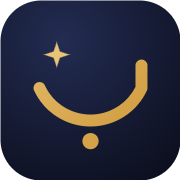
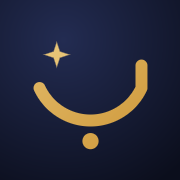
Bayan: fix all 14 refutation-confirmed code-review findings
An adversarial review (4 lenses, every finding independently attacked by
two skeptics; 14 upheld 2/2, 1 refuted) surfaced these; all fixed:

Engine:
- vocabDistractors now dedupes options by gloss and transliteration —
  سَنَة and عَام are both "year", and could render as twin options.
- searchVocab: a query whose fold is empty (a lone "-" or "ʿ") no longer
  prefix-matches the entire lexicon.
- Sun/moon questions draw target and options from the letters the drill
  actually covers (with a viability check swapping the kind when a group
  can't field a fair question) — no more quizzing untaught glyphs.
- bumpStreak/streakAlive: a clock that walks backwards (westward travel,
  manual fix) can no longer wipe an active streak or drag the watermark.

UI:
- Orphaned SRS cards are pruned instead of haunting the due badge.
- loadProfile normalizes stored-profile shape so a stale/hand-edited
  profile can't crash renders.
- "Drill the signs" jumps straight to the quiz like its sibling.
- Quiz seeds are salted per attempt: peek-quit-reopen no longer replays
  identical questions with the answers already revealed.
- Alphabet heading no longer claims "28 letters" over a 29-tile grid.

Tests + shell:
- New regression tests for each engine fix (41 total, all green); MARKS/
  MORPH integrity tests now pin every translit field the UI renders.
- icon-180 (apple-touch) ships full-bleed — iOS composites transparent
  corners onto black; it applies its own mask instead.
[…]

Changed region(s): [[0.0, 0.0, 1.0, 1.0], [0.8056, 0.8056, 1.0, 1.0]]

diff --git a/bayan/engine.js b/bayan/engine.js
@@ -4530,7 +4530,15 @@
 
   var LETTER_KINDS = ['glyph2name', 'name2glyph', 'glyph2sound', 'spotForm', 'sunmoon'];
 
-  function letterQuestion(letter, kind, seed) {
+  // Can a sun/moon question be asked fairly within this letter set?
+  // It needs a target on one side and three wrong options on the other.
+  function sunmoonViable(letters) {
+    var sun = 0, moon = 0;
+    for (var i = 0; i < (letters || []).length; i++) (letters[i].sun ? sun++ : moon++);
+    return (sun >= 1 && moon >= 3) || (moon >= 1 && sun >= 3);
+  }
+
+  function letterQuestion(letter, kind, seed, set) {
     var d = letterDistractors(letter, 3, seed);
     var q, correct;
     if (kind === 'glyph2name') {
@@ -4560,10 +4568,13 @@
       correct = { label: letter.nameEn, ar: '' };
       return finishQuestion(q, correct, d.map(function (x) { return { label: x.nameEn, ar: '' }; }), seed);
     }
-    // sunmoon: which of these is a sun/moon letter?
-    var wantSun = hashStr(seed + ':side') % 2 === 0;
+    // sunmoon: which of these is a sun/moon letter? Drawn from the letters
+    // THIS drill covers, so learners are never quizzed on unseen glyphs.
+    var src = set && set.length ? set : LETTERS;
     var pool = { sun: [], moon: [] };
-    for (var i = 0; i < LETTERS.length; i++) (LETTERS[i].sun ? pool.sun : pool.moon).push(LETTERS[i]);
+    for (var i = 0; i < src.length; i++) (src[i].sun ? pool.sun : pool.moon).push(src[i]);
+    var wantSun = hashStr(seed + ':side') % 2 === 0;
+    if (!((wantSun ? pool.sun : pool.moon).length >= 1 && (wantSun ? pool.moon : pool.sun).length >= 3)) wantSun = !wantSun;
     var target = pickN(wantSun ? pool.sun : pool.moon, 1, seed + ':t')[0] || letter;
     var wrongs = pickN(wantSun ? pool.moon : pool.sun, 3, seed + ':w');
     q = {
@@ -4585,7 +4596,8 @@
     for (var i = 0; i < n; i++) {
       var letter = order[i % order.length];
       var kind = LETTER_KINDS[hashStr(seed + ':kind:' + i) % (i < 2 ? 3 : LETTER_KINDS.length)];
-      qs.push(letterQuestion(letter, kind, seed + ':' + i));
+      if (kind === 'sunmoon' && !sunmoonViable(order)) kind = 'glyph2name';
+      qs.push(letterQuestion(letter, kind, seed + ':' + i, order));
     }
     return qs;
   }
@@ -4624,9 +4636,19 @@
       if (w.ar === word.ar || w.en === word.en) continue;
       (w.pos === word.pos ? samePos : rest).push(w);
     }
-    var out = pickN(samePos, n, seed + ':pos');
-    rest = seededShuffle(rest, seed + ':rest');
-    while (out.length < n && rest.length) out.push(rest.shift());
+    // Same-pos first, then the rest — and never two options sharing a
+    // gloss or a transliteration (the lexicon glosses both سَنَة and عَام
+    // as "year", which would render as twin options).
+    var pool = seededShuffle(samePos, seed + ':pos').concat(seededShuffle(rest, seed + ':rest'));
+    var out = [], seen = {};
+    seen['e:' + word.en.toLowerCase()] = 1;
+    seen['t:' + word.translit] = 1;
+    for (var p = 0; p < pool.length && out.length < n; p++) {
+      var ke = 'e:' + pool[p].en.toLowerCase(), kt = 't:' + pool[p].translit;
+      if (seen[ke] || seen[kt]) continue;
+      seen[ke] = 1; seen[kt] = 1;
+      out.push(pool[p]);
+    }
     return out;
   }
 
@@ -4866,6 +4888,7 @@
     var s = { count: (streak && streak.count) || 0, last: (streak && streak.last) || '', best: (streak && streak.best) || 0 };
     if (s.last === isoDate) return s;
     var diff = s.last ? isoDayDiff(s.last, isoDate) : NaN;
+    if (diff <= 0) return s;   // the clock walked backwards — today is already counted
     s.count = diff === 1 ? s.count + 1 : 1;
     s.last = isoDate;
     if (s.count > s.best) s.best = s.count;
@@ -4875,7 +4898,7 @@
   function streakAlive(streak, isoDate) {
     if (!streak || !streak.last) return false;
     var diff = isoDayDiff(streak.last, isoDate);
-    return diff === 0 || diff === 1;
+    return diff <= 1;   // 0/1 = today/yesterday; negative = a backwards clock, still alive
   }
 
   // The ladder of ranks — classical titles for a classical pursuit.
@@ -5071,8 +5094,8 @@
       var w = words[i];
       var score = 0;
       var en = w.en.toLowerCase(), tr = translitFold(w.translit), ar = normalizeAr(w.ar);
-      if (en === qEn || tr === qT || (qAr && ar === qAr)) score = 100;
-      else if (en.indexOf(qEn) === 0 || tr.indexOf(qT) === 0 || (qAr && ar.indexOf(qAr) === 0)) score = 70;
+      if (en === qEn || (qT && tr === qT) || (qAr && ar === qAr)) score = 100;
+      else if (en.indexOf(qEn) === 0 || (qT && tr.indexOf(qT) === 0) || (qAr && ar.indexOf(qAr) === 0)) score = 70;
       else if (en.indexOf(qEn) !== -1 || (qT && tr.indexOf(qT) !== -1) || (qAr && ar.indexOf(qAr) !== -1)) score = 40;
       if (score) out.push({ word: w, score: score });
     }

diff --git a/bayan/index.html b/bayan/index.html
@@ -282,7 +282,15 @@
       var raw = localStorage.getItem(PROFILE_KEY);
       if (raw) {
         var p = JSON.parse(raw);
-        if (p && typeof p === 'object') return p;
+        if (p && typeof p === 'object' && !Array.isArray(p)) {
+          // normalize shape so a hand-edited or stale profile can't crash a render
+          var base = E.defaultProfile();
+          p.xp = p.xp || 0;
+          p.stages = p.stages || base.stages;
+          p.cards = p.cards || base.cards;
+          p.streak = p.streak || base.streak;
+          return p;
+        }
       }
     } catch (e) {}
     return E.defaultProfile();
@@ -449,7 +457,15 @@
 
     var card = sess.queue[0];
     var word = E.cardWord(card);
-    if (!word) { sess.queue.shift(); renderReview(); return; }
+    if (!word) {
+      // a curriculum edit orphaned this card — prune it instead of letting
+      // it sit "due" forever behind a phantom badge count
+      sess.queue.shift();
+      delete state.profile.cards[card.id];
+      saveProfile();
+      renderReview();
+      return;
+    }
     h.push('<div class="muted" style="margin-bottom:8px">' + sess.queue.length + ' left in this session</div>');
     h.push('<div class="card flash">');
     h.push('<div class="f-ar ar" dir="rtl">' + esc(word.ar) + '</div>');
@@ -493,8 +509,8 @@
   /* ---------------- ALPHABET reference ---------------- */
   function renderAbc() {
     var h = [];
-    h.push('<div class="card"><div class="row spread"><h2>The 28 letters ' + ar('الْحُرُوف') + '</h2></div>');
-    h.push('<div class="muted" style="margin-bottom:10px">Tap a letter for its forms, sound and story.</div>');
+    h.push('<div class="card"><div class="row spread"><h2>The alphabet ' + ar('الْحُرُوف') + '</h2></div>');
+    h.push('<div class="muted" style="margin-bottom:10px">The 28 letters and hamza — tap any for its forms, sound and story.</div>');
     h.push('<div class="abc-grid">');
     for (var i = 0; i < E.LETTERS.length; i++) {
       var L = E.LETTERS[i];
@@ -685,6 +701,7 @@
       return E.letterQuiz(group ? group.letters : E.LETTERS, seed, 8);
     }
     if (stage.kind === 'letters-all') return E.letterQuiz(E.LETTERS, seed, 12);
+    if (stage.kind === 'marks-all') return E.markQuiz(seed, 12);
     if (stage.kind === 'marks') return E.markQuiz(seed, 8);
     if (stage.kind === 'vocab') {
       var unit = E.unitById(stage.ref);
@@ -722,7 +739,9 @@
 
   function beginQuiz() {
     var play = state.play;
-    play.quiz = buildQuiz(play.stage, stageSeed(play.stage));
+    // Salted per attempt: abandoning mid-quiz and reopening must not replay
+    // the identical questions with the answers already revealed.
+    play.quiz = buildQuiz(play.stage, stageSeed(play.stage) + ':' + Date.now());
     play.phase = play.quiz.length ? 'quiz' : 'done';
     play.qIdx = 0; play.answers = []; play.picked = -1;
     if (play.phase === 'done') finishStage();
@@ -1003,7 +1022,7 @@
     else if (act === 'text-en') { state.textOpen.showEn = !state.textOpen.showEn; renderText(); }
     else if (act === 'tense') { state.sarfTense = t.getAttribute('data-t'); renderSarf(); }
     else if (act === 'drill-abc') startStage({ id: 'drill-abc', kind: 'letters-all', ref: null, icon: '🎯', title: 'Alphabet drill', titleAr: 'كُلّ الْحُرُوف' });
-    else if (act === 'drill-marks') startStage({ id: 'drill-marks', kind: 'marks', ref: null, icon: '🎯', title: 'Signs drill', titleAr: 'الْحَرَكَات' });
+    else if (act === 'drill-marks') startStage({ id: 'drill-marks', kind: 'marks-all', ref: null, icon: '🎯', title: 'Signs drill', titleAr: 'الْحَرَكَات' });
     else if (act === 'say') speak(t.getAttribute('data-say'));
     else if (act === 'gloss') {
       var txt = E.textById(t.getAttribute('data-t'));
